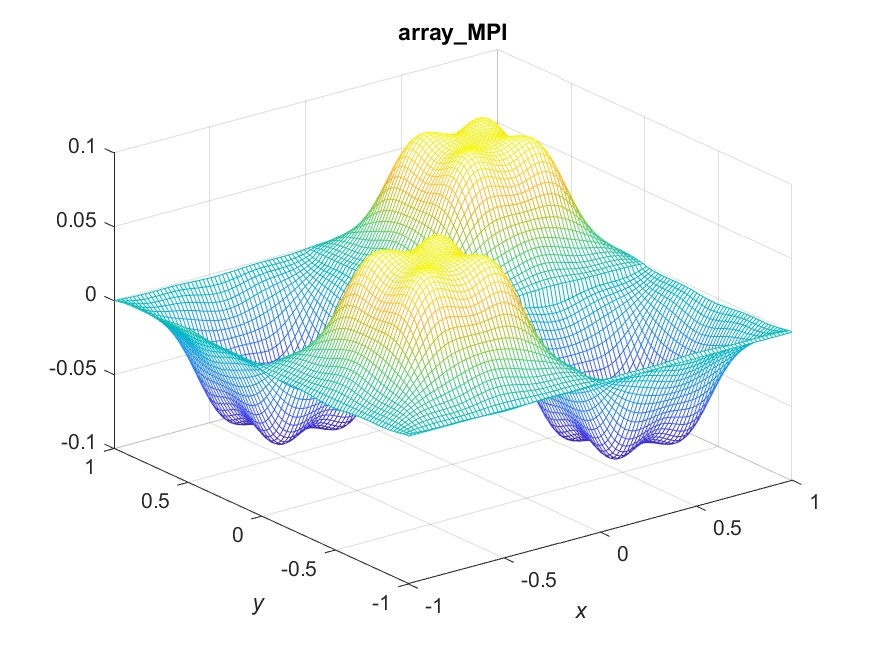
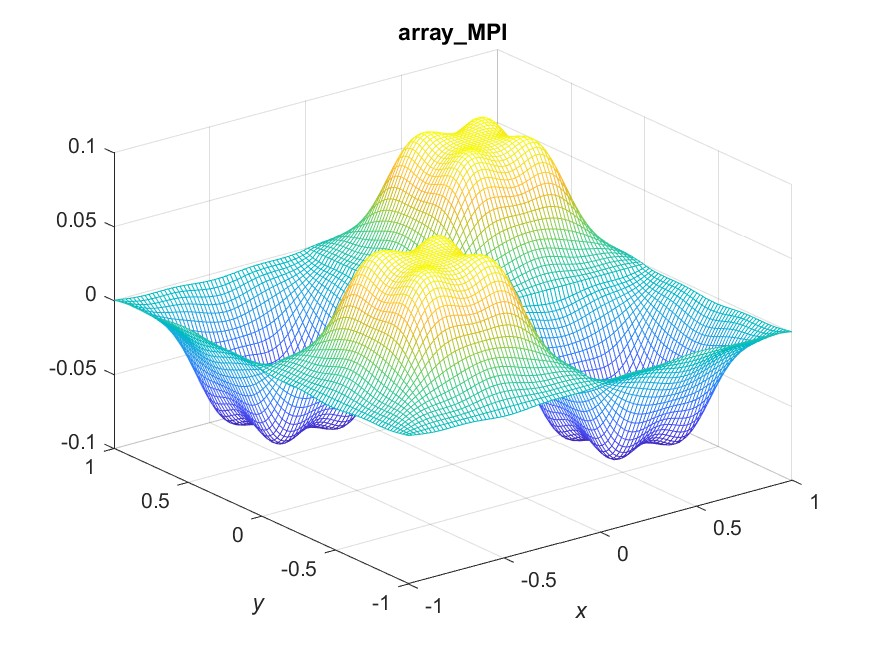
image for b

Changed region(s): [[0.1543, 0.1829, 0.8949, 0.7012], [0.4629, 0.2134, 0.4937, 0.2439]]

diff --git a/Proj2/plot_MATLAB.m b/Proj2/plot_MATLAB.m
@@ -13,8 +13,8 @@ nx=100;
 ny=nx;
 
 % alinea = 'a';
-% alinea = 'b';
-alinea = 'c';
+alinea = 'b';
+% alinea = 'c';
 % alinea = 'd';
 
 % fileID = fopen('results_2D.bin');
